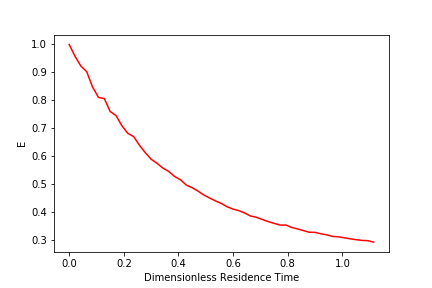
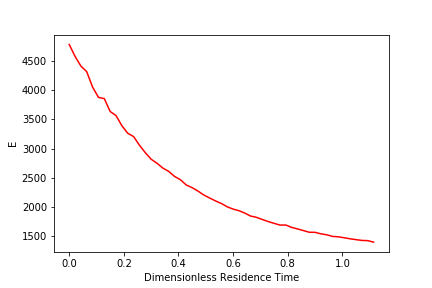
...

diff --git a/Lab5/team10_lab5_new.md b/Lab5/team10_lab5_new.md
@@ -4,13 +4,6 @@
 
 ## Team 10: Victor Khong (x hours) & Jacqueline Wong (x hours) ##
 
-##### Notes #####
-
-Baffles:
-
-- 5 mm diameter
-- 4 x 6 = 24 orifices in parallel.
-
 ### Introduction ###
 
 Our clients, Dr. Monroe Weber-Shirk, Jonathan Harris and Lily Falk work under the New York State Department of Environmental Conservation. The New York State Department of Environmental Conservation are concerned with the contaminants that have been released into the lakes and rivers by the industry and our clients have been asked to figure out methods to remove the contaminants. For easy analysis, they have modeled the various contaminated lakes and rivers in the New York State as flow reactors in order to decide what actions should be taken, namely CMFR, PFR and flow dispersion reactor. However, they would like to explore how to model the contaminant under the different types of flow reactors. Furthermore, they are interested in designing a reactor and a deep understanding of the different types of flow reactors is needed to do so.
@@ -113,16 +106,19 @@ Estimated values of N were calculated from the CMFR model while estimated values
 
 While it is difficult to compare the values of N and Pe since only data collected two experiments were able to fit into the curve models, it appears that the N for the estimated number of reactors for the one baffle experiment is 2, which is expected, while the N for the two baffle experiment is 2.3. It is good that this number is larger than that for two baffles, but we expected it to be closer to 3. On the other hand, for the Peclet numbers, they appear to be about the same.
 
-
 #### Report the values of t^{\star} at F = 0.1 for each of your experiments. Do they meet your expectations? ####
 
-tstar for 2 baffles = 1.92 minutes
+10 seconds
+15 seconds
+15 seconds
+35 seconds
+
+Explanation, attach graphs
+...
 
 In our reactor, there was no evidence of "short circuiting". The influent was mixed throughout most of the container before flowing out as effluent as different parts of the flow reactor was seen to turn red visibly. There was no evidence of red dye seeping between the wall of the reactor and the baffle instead of flowing through the orifices. This was one of the reason we decided to use red dye as our contaminant.
 
 However, there was some evidence of "dead volumes". During the running of the experiment, the red dye took much longer to reach the corner of the container. This is because this volume does not mix with the rest of the volume in the container well. This would have affected the experiment in some ways. We tried to counter this problem by including a magnetic stirrer. However, in reality, there are "dead volumes" in lakes and rivers so we are not too worried about the fact that there are "dead volumes" in our flow reactor.
-
-5. Make a recommendation for the design of a full scale chlorine contact tank. As part of your recommendation discuss the parameter you chose to vary as part of your experimentation and what the optimal value was determined to be.</b>
 
 To design a full scale chlorine tank, we would need to determine the size of the flow reactor, the diameter and the head loss across each orifice on the baffles, the number of orifices on each baffles, and the number of baffles. The goal of a chlorine contact tank is to maximize the inactivation of pathogens by maximizing the contact time between the chlorine and the pathogens before the water is sent to the distribution system. A large flow reactor would make for a better full scale chlorine contact tank.
 
@@ -154,6 +150,9 @@ import numpy as np
 import matplotlib.pyplot as plt
 import pandas as pd
 from scipy import stats
+
+C_tracer = 10 * u.mg/u.L
+V_tracer = 0.8 * u.mL
 
 CMFR_1_path = 'https://raw.githubusercontent.com/lw583/CEE4530/master/Lab5/lab5_cmfr_1.xls'
 epa.notes(CMFR_1_path)
@@ -191,7 +190,7 @@ plt.legend(['Measured dye','CMFR Model'])
 plt.savefig('Lab5/CMFR1.png')
 plt.show()
 
-CMFR_1_E = ((CMFR_1_concentration_data*CMFR_1_V)/(CMFR_1_CMFR.C_bar*CMFR_1_V)).to(u.dimensionless)
+CMFR_1_E = ((CMFR_1_concentration_data*CMFR_1_V)/(C_tracer*V_tracer)).to(u.dimensionless)
 CMFR_1_dimensionless_time = CMFR_1_time_data/CMFR_1_theta_hydraulic
 plt.plot(CMFR_1_dimensionless_time.to(u.dimensionless), CMFR_1_E.to(u.dimensionless),'r')
 plt.xlabel(r'Dimensionless Residence Time')
@@ -207,7 +206,7 @@ for i in range (CMFR_1_E.size):
   else:
     print("F is over 0.1 at " +str(CMFR_1_dimensionless_time[i]))
 
-CMFR_1_tstar = (0.8574*CMFR_1_theta_hydraulic).to(u.min)
+CMFR_1_tstar = (0.04288*CMFR_1_theta_hydraulic).to(u.seconds)
 CMFR_1_tstar
 plt.plot(CMFR_1_dimensionless_time.to(u.dimensionless), CMFR_1_F,'r')
 plt.xlabel(r'Dimensionless Residence Time')
@@ -256,6 +255,30 @@ plt.legend(['Measured dye','CMFR Model', 'AD Model'])
 plt.savefig('Lab5/CMFR2.png')
 plt.show()
 
+CMFR_2_E = ((CMFR_2_concentration_data*CMFR_2_V)/(C_tracer*V_tracer*1/3)).to(u.dimensionless)
+CMFR_2_dimensionless_time = CMFR_2_time_data/CMFR_2_theta_hydraulic
+plt.plot(CMFR_2_dimensionless_time.to(u.dimensionless), CMFR_2_E.to(u.dimensionless),'r')
+plt.xlabel(r'Dimensionless Residence Time')
+plt.ylabel(r'E')
+plt.savefig('Lab5/CMFR2_CMFR_E.png')
+plt.show()
+
+CMFR_2_F = np.zeros(CMFR_2_E.size)
+for i in range (CMFR_2_E.size):
+  CMFR_2_F[i] = np.trapz(CMFR_2_E[0:i], CMFR_2_dimensionless_time[0:i])
+  if CMFR_2_F[i] <.1:
+    print("F is not over 0.1 at " +str(CMFR_2_dimensionless_time[i]))
+  else:
+    print("F is over 0.1 at " +str(CMFR_2_dimensionless_time[i]))
+
+CMFR_2_tstar = (0.06431*CMFR_1_theta_hydraulic).to(u.seconds)
+CMFR_2_tstar
+plt.plot(CMFR_2_dimensionless_time.to(u.dimensionless), CMFR_2_F,'r')
+plt.xlabel(r'Dimensionless Residence Time')
+plt.ylabel(r'F')
+plt.savefig('Lab5/CMFR2_CMFR_F.png')
+plt.show()
+
 CMFR_3_path = 'https://raw.githubusercontent.com/lw583/CEE4530/master/Lab5/lab5_cmfr_3.xls'
 CMFR_3_firstrow = epa.notes(CMFR_3_path).last_valid_index() + 1
 CMFR_3_firstrow = CMFR_3_firstrow + 10
@@ -297,7 +320,7 @@ plt.legend(['Measured dye','CMFR Model', 'AD Model'])
 plt.savefig('Lab5/CMFR3.png')
 plt.show()
 
-CMFR_3_E = ((CMFR_3_concentration_data*CMFR_3_V)/(CMFR_3_CMFR.C_bar*CMFR_3_V)).to(u.dimensionless)
+CMFR_3_E = ((CMFR_3_concentration_data*CMFR_3_V)/(C_tracer*V_tracer*1/2)).to(u.dimensionless)
 CMFR_3_dimensionless_time = CMFR_3_time_data/CMFR_3_theta_hydraulic
 plt.plot(CMFR_3_dimensionless_time.to(u.dimensionless), CMFR_3_E.to(u.dimensionless),'r')
 plt.xlabel(r'Dimensionless Residence Time')
@@ -313,7 +336,7 @@ for i in range (CMFR_3_E.size):
   else:
     print("F is over 0.1 at " +str(CMFR_3_dimensionless_time[i]))
 
-CMFR_3_tstar = (0.493*CMFR_3_theta_hydraulic).to(u.min)
+CMFR_3_tstar = (0.06431*CMFR_3_theta_hydraulic).to(u.seconds)
 CMFR_3_tstar
 plt.plot(CMFR_3_dimensionless_time.to(u.dimensionless), CMFR_3_F,'r')
 plt.xlabel(r'Dimensionless Residence Time')
@@ -361,4 +384,33 @@ plt.ylabel(r'Concentration $\left ( \frac{mg}{L} \right )$')
 plt.legend(['Measured dye','CMFR Model', 'AD Model'])
 plt.savefig('Lab5/CMFR4.png')
 plt.show()
+
+CMFR_4_E = ((CMFR_4_concentration_data*CMFR_4_V)/(C_tracer*V_tracer*1/4)).to(u.dimensionless)
+CMFR_4_dimensionless_time = CMFR_4_time_data/CMFR_4_theta_hydraulic
+plt.plot(CMFR_4_dimensionless_time.to(u.dimensionless), CMFR_4_E.to(u.dimensionless),'r')
+plt.xlabel(r'Dimensionless Residence Time')
+plt.ylabel(r'E')
+plt.savefig('Lab5/CMFR4_CMFR_E.png')
+plt.show()
+
+CMFR_4_F = np.zeros(CMFR_4_E.size)
+for i in range (CMFR_4_E.size):
+  CMFR_4_F[i] = np.trapz(CMFR_4_E[0:i], CMFR_4_dimensionless_time[0:i])
+  if CMFR_4_F[i] <.1:
+    print("F is not over 0.1 at " +str(CMFR_4_dimensionless_time[i]))
+  else:
+    print("F is over 0.1 at " +str(CMFR_4_dimensionless_time[i]))
+
+CMFR_3_tstar = (0.1501*CMFR_3_theta_hydraulic).to(u.seconds)
+CMFR_3_tstar
+plt.plot(CMFR_3_dimensionless_time.to(u.dimensionless), CMFR_3_F,'r')
+plt.xlabel(r'Dimensionless Residence Time')
+plt.ylabel(r'F')
+plt.savefig('Lab5/CMFR3_CMFR_F.png')
+plt.show()
 ```
+
+Baffles:
+
+- 5 mm diameter
+- 4 x 6 = 24 orifices in parallel.
